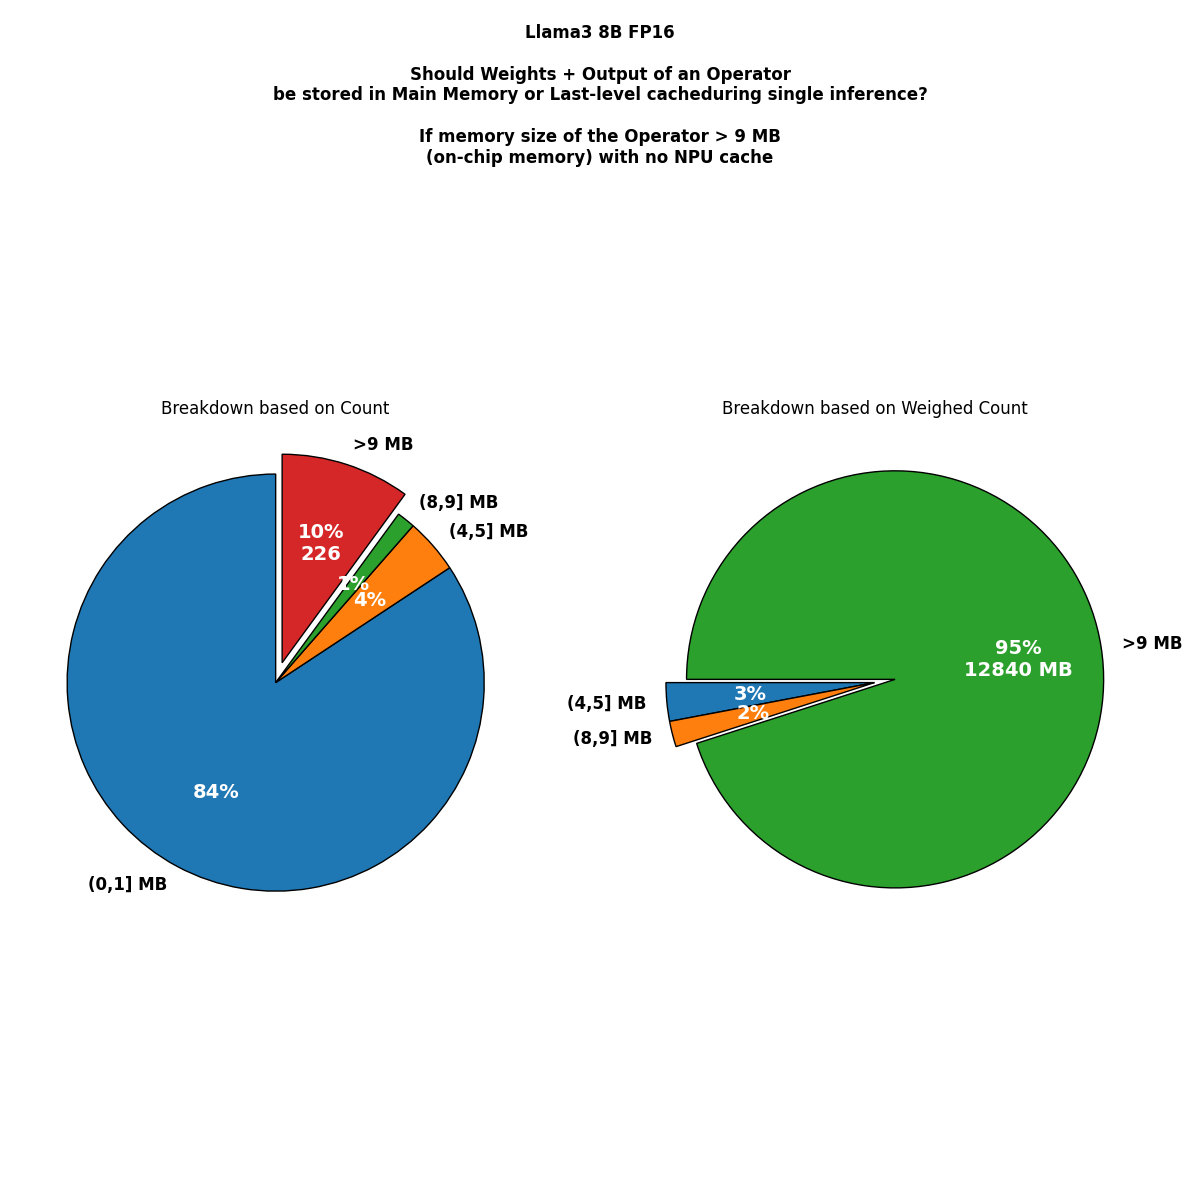
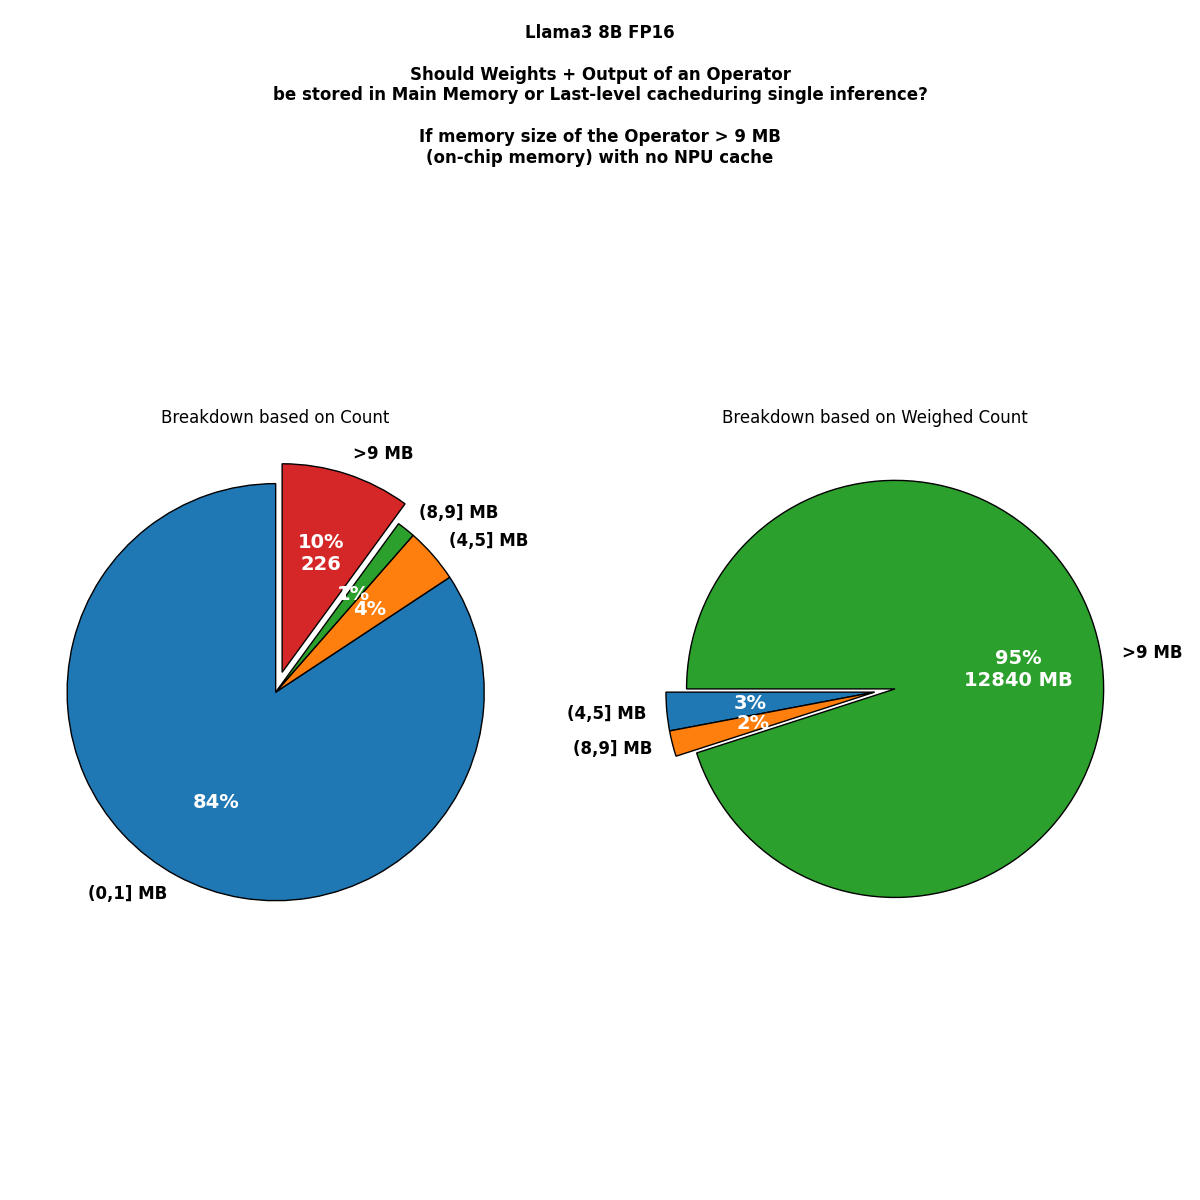
modified analysis plots

diff --git a/scripts/onnxProfile/onnx_profiling_analysis.py b/scripts/onnxProfile/onnx_profiling_analysis.py
@@ -21,7 +21,6 @@ try:
 
 except IndexError:
     raise Exception("[Usage] > python onnx_profiling_analysis.py [name of the model being analysed] [analysis csv filename] [size of NPU on-chip memory in MB]")
-    sys.exit()
 
 model_dir = '_'.join(model_name.lower().split(' '))
 filepath = os.path.join(root, 'results', 'onnxProfile', 'logs', model_dir, filename + '_summary.csv')
@@ -198,7 +197,7 @@ if histogram_dict1 and histogram_dict2:
     # set title
     fig.suptitle('{}\n\nShould Weights + Output of an Operator\nbe stored in Main Memory or Last-level cache'.format(model_name) + 
                  'during single inference?\n\nIf memory size of the Operator > {} MB\n'.format(threshold) + 
-                 '(on-chip memory) with no NPU cache\n', fontweight='bold')
+                 '(on-chip memory) with no NPU cache\n\n', fontweight='bold')
     
     ax1.set_title('Breakdown based on Count')
     ax2.set_title('Breakdown based on Weighed Count')
@@ -209,35 +208,59 @@ if histogram_dict1 and histogram_dict2:
 
     plt.close(fig)
 
-    x = range(len(optimized_operator_timeline))
-
     unique_ops = list(set(optimized_operator_timeline))
     num_unique_ops = len(unique_ops)
 
+    operator_memory_list = [int(key[0]) for key in optimized_memory_usage.keys()]
+
+    max_operator_memory = max(operator_memory_list)
+
+    # adapted from https://stackoverflow.com/questions/62802061/python-find-outliers-inside-a-list
+    def find_outliers(data: list, m: int = 7):
+        data = numpy.asarray(data)
+        d = numpy.abs(data - numpy.median(data))
+        median_d = numpy.median(d)
+        std_dev = d / (median_d if median_d else 1.0)
+        
+        return data[numpy.nonzero(std_dev > m)]
+
+    # find and remove outliers while plotting operators' memory values
+    outlier_list = find_outliers(operator_memory_list)
+
+    refined_operator_timeline = ()
+    refined_operator_usage_timeline = ()
+
+    for outlier in outlier_list:
+        for i, elem in enumerate(optimized_operator_usage_timeline):
+            if math.ceil(elem) < outlier:
+                refined_operator_timeline += (optimized_operator_timeline[i],)
+                refined_operator_usage_timeline += (optimized_operator_usage_timeline[i],)
+
     plot_ops = []
+    refined_unique_ops = list(set(refined_operator_timeline))
 
-    for i, op in enumerate(optimized_operator_timeline):
-        plot_ops.append(unique_ops.index(op))
-
-    max_operator_memory = max([int(key[0]) for key in optimized_memory_usage.keys()])
+    for i, op in enumerate(refined_operator_timeline):
+        plot_ops.append(refined_unique_ops.index(op))
 
     fig, ax = plt.subplots(figsize=(18, 12))
 
+    x = range(len(refined_operator_timeline))
+
     scatter = ax.scatter(
         x,
-        optimized_operator_usage_timeline,
+        refined_operator_usage_timeline,
         c=plot_ops
     )
 
     # set axes labels and title
     ax.set_xticks(x)
-    ax.set_yticks(range(0, max_operator_memory + 1, 5))
+    ax.set_yticks(range(threshold, threshold + math.ceil(max(refined_operator_usage_timeline)), 5))
 
     handles, _ = scatter.legend_elements()
 
     legend = ax.legend(
         handles=handles,
-        labels=unique_ops,
+        labels=refined_unique_ops,
         loc='best',
         title='Operators'
     )
@@ -251,7 +274,7 @@ if histogram_dict1 and histogram_dict2:
 
     fig.suptitle('{}\n\nShould Weights + Output of an Operator\nbe stored in Main Memory or Last-level cache'.format(model_name) + 
                  'during single inference?\n\nIf memory size of the Operator > {} MB\n'.format(threshold) + 
-                 '(on-chip memory) with no NPU cache\n', fontweight='bold')
+                 '(on-chip memory) with no NPU cache\n\nMaximum Operator Memory: {} MB\n\n'.format(max_operator_memory), fontweight='bold')
 
     ax.set_title('Memory Size of Operators (> {} MB)'.format(threshold))
     
